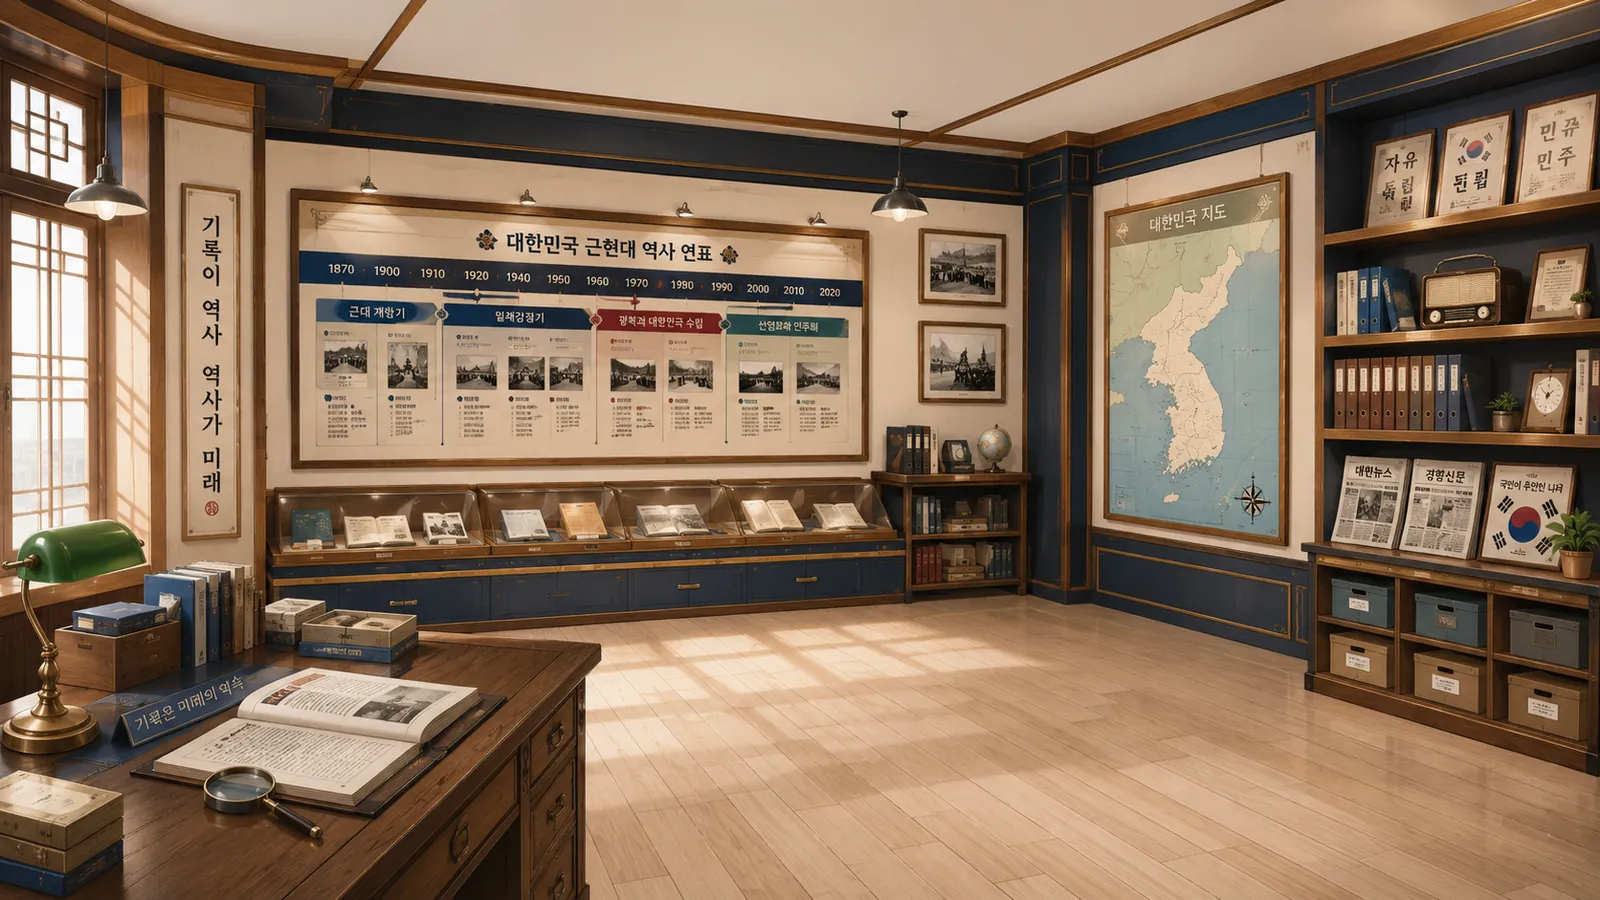
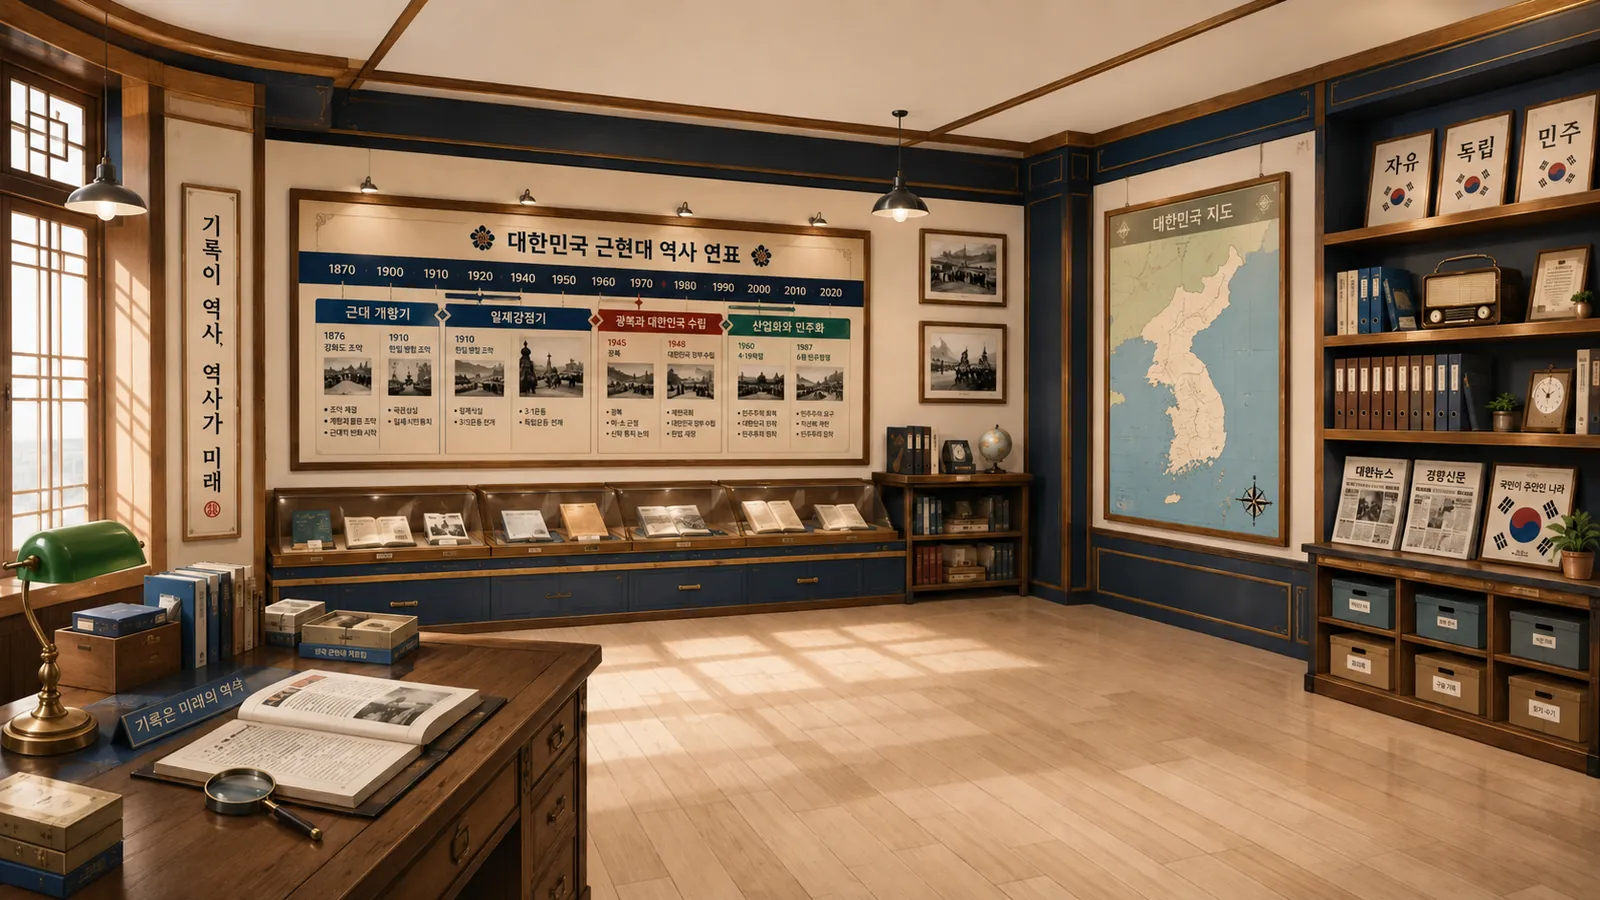
새 에셋 21종 배치 + 시대별 다이어리 배경 적용
- 근현대 기록실 배경을 한글이 깨지지 않은 새 이미지로 교체 (기존본은 source-assets에 백업)
- 그물추 i146(이름 칩 → 아이콘), 금속활자 i147(글자 깨짐 해소)
- 마스코트 5종 교체: 두더지 i148 / 해치 i149 / 용거북 i150 / 토끼 i151 / 너구리 i152
- 다이어리 시대 배경 5종, 스티커 보관함 배경 5종 → data-period로 시대에 맞춰 전환
- 꾸미기 전용 스티커 3종(돌탑·발자국 화석·모닥불) 추가
  학습 보상이 아니라 늘 열려 있고 '모은 스티커 n/m' 집계에는 들어가지 않는다
- 중복 업로드본 10장은 삭제하지 않고 source-assets/incoming-duplicates로 이동

diff --git a/src/data/stickers.ts b/src/data/stickers.ts
@@ -14,7 +14,7 @@ export const STICKERS: Sticker[] = [
   { id: 'plain-pottery', period: 'prehistoric', name: '민무늬 토기', icon: 'i121', hintLine: '민무늬 토기는 청동기 시대에 널리 쓰인 무늬 없는 토기이다.', contentReviewNeeded: true },
   { id: 'half-moon-knife', period: 'prehistoric', name: '반달돌칼', icon: 'i122', hintLine: '반달돌칼은 곡식의 이삭을 자르는 데 쓰던 청동기 시대 도구이다.', contentReviewNeeded: true },
   { id: 'bipa-dagger', period: 'prehistoric', name: '비파형 동검', icon: 'i123', hintLine: '비파형 동검은 비파를 닮은 모양의 청동기 시대 검이다.', contentReviewNeeded: true },
-  { id: 'net-sinker', period: 'prehistoric', name: '그물추', icon: null, hintLine: '그물추는 그물이 물에 잘 가라앉도록 매다는 돌추로, 고기잡이 생활을 짐작하게 해 준다.', contentReviewNeeded: true },
+  { id: 'net-sinker', period: 'prehistoric', name: '그물추', icon: 'i146', hintLine: '그물추는 그물이 물에 잘 가라앉도록 매다는 돌추로, 고기잡이 생활을 짐작하게 해 준다.', contentReviewNeeded: true },
   { id: 'dolmen', period: 'prehistoric', name: '고인돌', icon: 'i005', hintLine: '고인돌은 청동기 시대 지배층의 무덤으로 알려진 큰 돌 무덤이다.', contentReviewNeeded: true },
   // ----- 삼국·통일신라 -----
   { id: 'goguryeo-mural', period: 'threeKingdoms', name: '고구려 고분벽화', icon: 'i057', hintLine: '고구려 고분벽화에는 당시 사람들의 생활과 생각이 그림으로 남아 있다.', contentReviewNeeded: true },
@@ -33,7 +33,7 @@ export const STICKERS: Sticker[] = [
   { id: 'celadon-melon', period: 'goryeo', name: '청자 참외모양 병', icon: 'i129', hintLine: '청자 참외모양 병은 참외 모양을 본떠 만든 고려청자이다.', contentReviewNeeded: true },
   { id: 'tripitaka', period: 'goryeo', name: '팔만대장경', icon: 'i062', hintLine: '팔만대장경은 부처의 힘으로 나라의 어려움을 이겨 내려는 뜻에서 새긴 것으로 알려진 목판이다.', contentReviewNeeded: true },
   { id: 'janggyeong-panjeon', period: 'goryeo', name: '해인사 장경판전', icon: 'i065', hintLine: '장경판전은 팔만대장경 목판을 잘 보존하도록 지은 건물이다.', contentReviewNeeded: true },
-  { id: 'metal-type', period: 'goryeo', name: '금속활자', icon: 'i063', hintLine: '금속활자는 금속으로 글자를 만들어 책을 찍는 인쇄 기술이다.', contentReviewNeeded: true },
+  { id: 'metal-type', period: 'goryeo', name: '금속활자', icon: 'i147', hintLine: '금속활자는 금속으로 글자를 만들어 책을 찍는 인쇄 기술이다.', contentReviewNeeded: true },
   { id: 'jikji', period: 'goryeo', name: '직지', icon: 'i130', hintLine: '직지는 현재 남아 있는 금속활자 인쇄본 가운데 세계에서 가장 오래된 책으로 알려져 있다.', contentReviewNeeded: true },
   { id: 'goryeo-painting', period: 'goryeo', name: '고려 불화', icon: 'i131', hintLine: '고려 불화는 고려 시대 불교문화의 섬세한 아름다움을 보여 주는 그림이다.', contentReviewNeeded: true },
   { id: 'bronze-hyangwan', period: 'goryeo', name: '청동 은입사 향완', icon: 'i132', hintLine: '청동 은입사 향완은 청동에 은실로 무늬를 넣어 만든 고려의 향로이다.', contentReviewNeeded: true },
@@ -62,4 +62,12 @@ export const STICKERS: Sticker[] = [
   { id: 'daehan-doc', period: 'modern', name: '대한제국 문서', icon: 'i142', hintLine: '대한제국 문서는 대한제국 시기의 나라 운영을 보여 주는 기록이다.', contentReviewNeeded: true },
 ]
 
-export const stickerById = new Map(STICKERS.map((s) => [s.id, s]))
+/** 꾸미기 전용 스티커. 학습 보상이 아니라 처음부터 열려 있고,
+ *  "모은 스티커 n/m" 집계(STICKERS)에는 들어가지 않는다. */
+export const DECO_STICKERS: Sticker[] = [
+  { id: 'deco-stone-tower', period: 'prehistoric', name: '돌탑', icon: 'i153', hintLine: '돌을 쌓아 소원을 빌던 마음을 떠올리며 꾸며 보세요.' },
+  { id: 'deco-footprint', period: 'prehistoric', name: '발자국 화석', icon: 'i154', hintLine: '땅에 남은 발자국도 옛사람을 알려 주는 자료가 돼요.' },
+  { id: 'deco-campfire', period: 'prehistoric', name: '모닥불', icon: 'i155', hintLine: '불을 다루게 되면서 사람들의 생활이 크게 달라졌어요.' },
+]
+
+export const stickerById = new Map([...STICKERS, ...DECO_STICKERS].map((s) => [s.id, s]))

diff --git a/src/styles/tuning.css b/src/styles/tuning.css
@@ -553,3 +553,45 @@
   width: fit-content;
   margin-inline: auto;
 }
+
+/* ================= 다이어리 시대 배경 ================= */
+
+/* 시대마다 다른 종이 바탕을 깐다. 스티커·글씨가 위에 놓이므로
+ * 가운데는 비워 둔 그림이고, 밝기를 살짝 눌러 대비를 확보한다. */
+.diary-page[data-period] {
+  background-size: cover;
+  background-position: center;
+  background-repeat: no-repeat;
+}
+
+.diary-page[data-period='prehistoric'] { background-image: url('/assets/opt/bg/diarybg1.webp'); }
+.diary-page[data-period='threeKingdoms'] { background-image: url('/assets/opt/bg/diarybg2.webp'); }
+.diary-page[data-period='goryeo'] { background-image: url('/assets/opt/bg/diarybg3.webp'); }
+.diary-page[data-period='joseon'] { background-image: url('/assets/opt/bg/diarybg4.webp'); }
+.diary-page[data-period='modern'] { background-image: url('/assets/opt/bg/diarybg5.webp'); }
+
+/* 보관함도 시대별 진열장으로 */
+.diary-tray[data-period] {
+  background-size: cover;
+  background-position: center;
+  background-repeat: no-repeat;
+}
+
+.diary-tray[data-period='prehistoric'] { background-image: url('/assets/opt/bg/traybg1.webp'); }
+.diary-tray[data-period='threeKingdoms'] { background-image: url('/assets/opt/bg/traybg2.webp'); }
+.diary-tray[data-period='goryeo'] { background-image: url('/assets/opt/bg/traybg3.webp'); }
+.diary-tray[data-period='joseon'] { background-image: url('/assets/opt/bg/traybg4.webp'); }
+.diary-tray[data-period='modern'] { background-image: url('/assets/opt/bg/traybg5.webp'); }
+
+/* 배경 위에서도 카드·글씨가 읽히게 살짝 띄운다 */
+.diary-tray[data-period] .diary-tray__title,
+.diary-page[data-period] .diary-page__label {
+  background: rgba(16, 35, 63, 0.86);
+  color: #fff8e6;
+  border-radius: 1.4cqh;
+  padding: 0.3cqh 1cqw;
+}
+
+.diary-tray[data-period] .diary-tray__item {
+  background-color: rgba(253, 247, 233, 0.94);
+}

diff --git a/src/pages/DiaryEditorPage.tsx b/src/pages/DiaryEditorPage.tsx
@@ -3,7 +3,7 @@ import { AssetImage } from '../components/AssetImage'
 import { AppButton } from '../components/common'
 import { bgSrc, iconSrc, SCREEN_BG } from '../data/assets'
 import { PERIOD_LABELS } from '../data/stages'
-import { STICKERS, stickerById } from '../data/stickers'
+import { DECO_STICKERS, STICKERS, stickerById } from '../data/stickers'
 import { useGame } from '../game/GameContext'
 import type { DiaryPlacedSticker, PeriodId } from '../types'
 import { audio } from '../utils/audio'
@@ -44,9 +44,11 @@ export function DiaryEditorPage() {
   const [gesture, setGesture] = useState<Gesture | null>(null)
 
   const page = save.diary[period]
-  const earnedInPeriod = STICKERS.filter(
-    (s) => s.period === period && save.earnedStickers.includes(s.id),
-  )
+  const earnedInPeriod = [
+    ...STICKERS.filter((s) => s.period === period && save.earnedStickers.includes(s.id)),
+    // 꾸미기 스티커는 모으지 않아도 늘 쓸 수 있다
+    ...DECO_STICKERS.filter((s) => s.period === period),
+  ]
   const placedIds = page.stickers.map((p) => p.stickerId)
 
   const mutatePage = (fn: (stickers: DiaryPlacedSticker[]) => DiaryPlacedSticker[]) => {
@@ -248,6 +250,7 @@ export function DiaryEditorPage() {
         <div className="diary-edit__body">
           <div
             className="diary-page"
+            data-period={period}
             ref={pageRef}
             onPointerDown={(e) => {
               if (e.target === e.currentTarget) setSelectedId(null)
@@ -341,7 +344,7 @@ export function DiaryEditorPage() {
               />
             </div>
           </div>
-          <aside className="diary-tray">
+          <aside className="diary-tray" data-period={period}>
             <h2 className="diary-tray__title">스티커 보관함</h2>
             <div className="diary-tray__list">
               {earnedInPeriod.length === 0 && (

diff --git a/src/data/questions.ts b/src/data/questions.ts
@@ -328,7 +328,7 @@ export const QUESTIONS: Question[] = [
   },
   {
     id: 'q-s3-05', stageId: 'stage3', type: 'choice',
-    artifactIcon: 'i063', artifactName: '금속활자', artifactPhoto: 'metal-type',
+    artifactIcon: 'i147', artifactName: '금속활자', artifactPhoto: 'metal-type',
     prompt: '"금속으로 글자를 하나씩 만들어 두면, 여러 종류의 책을 찍을 때 다시 배열해 쓸 수 있다." 이 설명에서 알 수 있는 금속활자의 좋은 점은?',
     choices: [
       '활자를 다시 짜 맞춰 여러 종류의 책을 찍을 수 있다',

diff --git a/src/data/assets.ts b/src/data/assets.ts
@@ -64,19 +64,19 @@ export const A = {
   badgeModern: 'i016',
   // 스테이지별 캐릭터·마스코트·소품
   s1Girl: 'i040',
-  s1Mole: 'i041',
+  s1Mole: 'i148',
   s1Hearth: 'i048',
   s2Boy: 'i050',
-  s2Haechi: 'i051',
+  s2Haechi: 'i149',
   s2MapDesk: 'i056',
   s3Boy: 'i058',
-  s3Turtle: 'i060',
+  s3Turtle: 'i150',
   s3Workbench: 'i064',
   s4Boy: 'i075',
-  s4Rabbit: 'i068',
+  s4Rabbit: 'i151',
   s4StarChart: 'i077',
   s5Girl: 'i083',
-  s5Raccoon: 'i085',
+  s5Raccoon: 'i152',
   s5Archive: 'i086',
   // 다이어리·수료
   diaryGirl: 'i092',

diff --git a/src/pages/DiaryShowcasePage.tsx b/src/pages/DiaryShowcasePage.tsx
@@ -47,7 +47,7 @@ export function DiaryShowcasePage() {
             ◀
           </AppButton>
           <div className="diary-show__book">
-            <div className="diary-page diary-page--show">
+            <div className="diary-page diary-page--show" data-period={period}>
               <span className="diary-page__label">
                 {PERIOD_LABELS[period]} ({pageIdx + 1}/{PERIOD_ORDER.length})
               </span>
